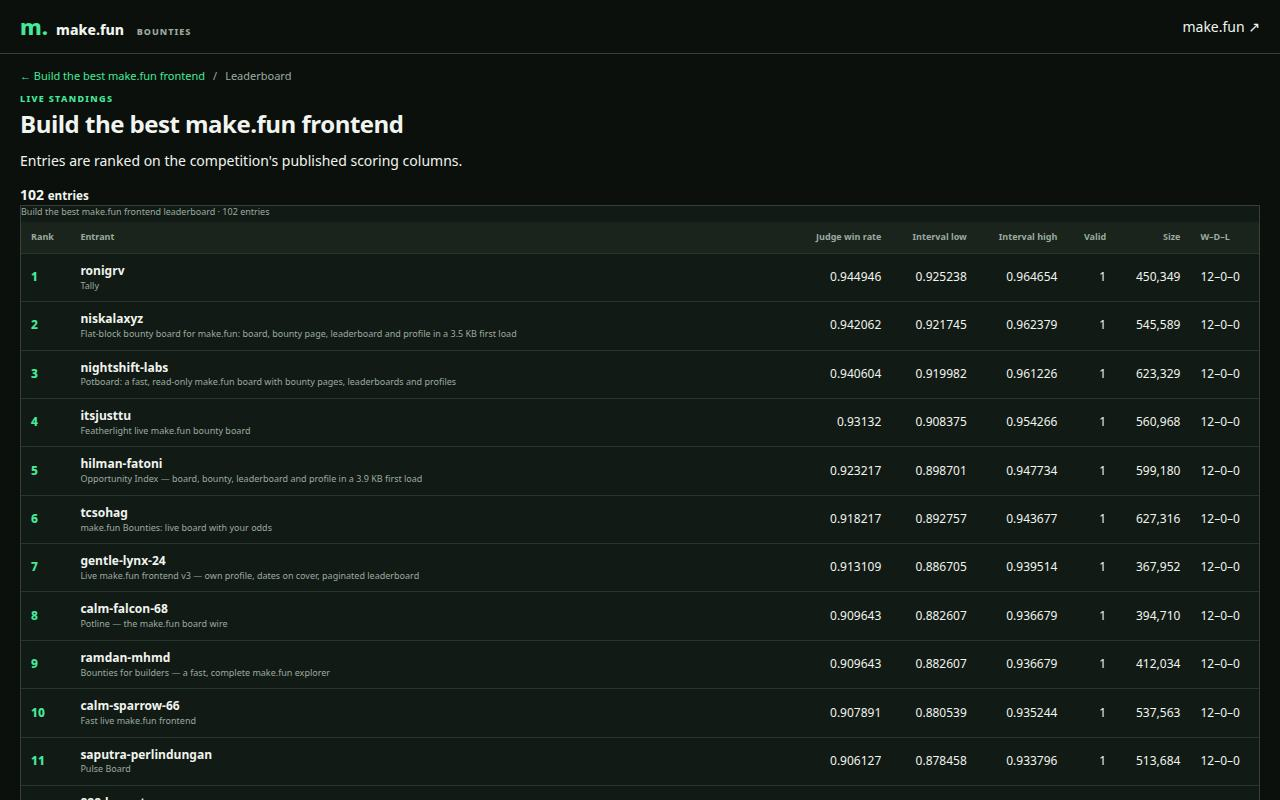
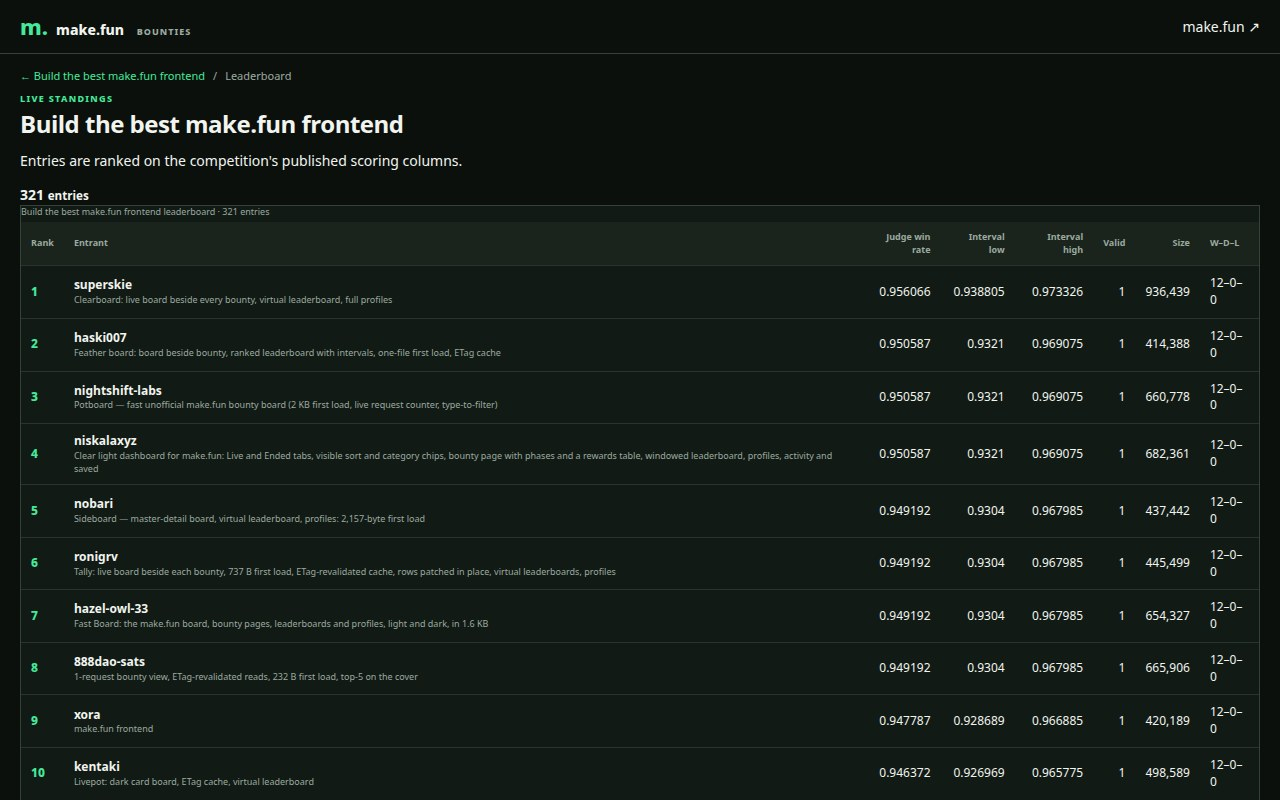
Prize-first bounty detail: live-pot stat strip + rewards table
Lead the bounty detail pane with the live prize (live pot, time left,
entry fee, entries) and a Rewards at the live pot table, matching what
the top-ranked entries show first. README referral code filled in.
First load 3,383 bytes gzip-9.

diff --git a/app/style.css b/app/style.css
@@ -1,3 +1,5 @@
 :root{color-scheme:dark;--b:#0b100d;--p:#121a15;--l:#354139;--m:#9caaa0;--t:#f1f4ef;--g:#45e99a;--y:#f3c86b}*{box-sizing:border-box}body{margin:0;background:var(--b);color:var(--t);font:14px/1.4 system-ui, sans-serif}a{color:inherit;text-decoration:none}a:hover{color:var(--g)}.site-head{height:54px;padding:0 max(20px,calc((100vw - 1240px)/2));border-bottom:1px solid var(--l);display:flex;align-items:center;justify-content:space-between}.brand{font-weight:800}.brand small{color:var(--m);font-size:9px;letter-spacing:1px;margin-left:9px}.mark{color:var(--g);font-size:22px;margin-right:8px}main{max-width:1280px;margin:auto;padding:14px 20px 28px;min-height:calc(100vh - 100px)}footer{display:none}.eyebrow{color:var(--g);font-size:9px;font-weight:800;letter-spacing:1.3px;margin:0 0 5px}.crumb{display:flex;gap:8px;color:var(--m);font-size:11px;margin:0 0 10px}.crumb a{color:var(--g)}h1{font-size:24px;line-height:1.1;margin:0 0 7px;letter-spacing:-.5px}h2{font-size:16px;margin:0 0 7px}.board-summary{display:flex;gap:22px;padding:8px 11px;border:1px solid var(--l);background:var(--p);margin-bottom:10px;color:var(--m);font-size:11px}.board-summary b{color:var(--g);font-size:14px;margin-right:4px}.split{display:grid;grid-template-columns:44% 56%;border:1px solid var(--l);min-height:620px}.list-pane{border-right:1px solid var(--l);min-width:0}.tools{display:flex;gap:7px;padding:9px;border-bottom:1px solid var(--l)}input,select{background:#080c09;border:1px solid #465249;color:var(--t);border-radius:3px;padding:7px 9px;font:inherit;min-width:0}input{flex:1}.board-head,.board-row{display:grid;grid-template-columns:minmax(0,1fr) 72px 58px 78px;gap:8px;align-items:center}.board-head{padding:7px 10px;color:var(--m);font-size:9px;text-transform:uppercase;border-bottom:1px solid var(--l)}.board{list-style:none;padding:0;margin:0}.board-row{padding:9px 10px;border-bottom:1px solid #27332b;min-height:66px}.board-row:hover,.board-row.selected{background:#183328}.title-link{display:block;min-width:0}.title-link strong{display:block;font-size:12px;line-height:1.25}.title-link small{display:block;color:var(--m);font-size:10px;white-space:nowrap;overflow:hidden;text-overflow:ellipsis}.status{display:inline-block;color:var(--g);font-size:8px;font-weight:800;letter-spacing:.7px;margin-bottom:3px}.status.closed{color:var(--m)}.pot{color:var(--g);font-weight:800;font-size:13px}.pot small,.entries small{display:block;color:var(--m);font-size:9px;font-weight:400}.fee{font-size:10px;color:var(--y)}.deadline{font-size:10px;font-variant-numeric:tabular-nums}.bar{height:3px;background:#465249;margin-top:4px}.bar i{display:block;height:100%;background:var(--g)}.entries{text-align:right;font-variant-numeric:tabular-nums;font-size:12px}.detail-pane{padding:17px 20px;min-width:0}.detail-top{display:flex;justify-content:space-between;gap:10px}.badge{color:var(--g);font-size:9px;letter-spacing:.8px;font-weight:800}.detail-stats{display:grid;grid-template-columns:repeat(4,1fr);border-block:1px solid var(--l);margin:12px 0;padding:8px 0}.detail-stats span{font-size:9px;color:var(--m);display:block}.detail-stats b{font-size:14px}.pot-note,.muted,.dates{color:var(--m);font-size:10px}.detail-grid{display:grid;grid-template-columns:minmax(0,1fr) 210px;gap:18px}.prose{white-space:pre-wrap;line-height:1.5;color:#cbd3cd;font-size:11px;max-height:230px;overflow:auto}.rules{white-space:pre-wrap;overflow-wrap:anywhere;color:#bbc6bd;font:10px/1.45 ui-monospace,monospace;max-height:105px;overflow:auto}.reward-card{background:var(--p);padding:11px;border:1px solid var(--l);align-self:start}.reward-card table,table{width:100%;border-collapse:collapse;font-size:10px}caption{text-align:left;color:var(--m);font-size:9px;padding:0 0 4px}th,td{text-align:left;padding:5px 4px;border-bottom:1px solid #28352d}th{color:var(--m);font-size:9px}th.num,td.num{text-align:right;font-variant-numeric:tabular-nums}.button{display:block;background:var(--g);color:#06100a;text-align:center;padding:8px;font-size:10px;font-weight:800;margin-top:10px}.leader-head{display:flex;justify-content:space-between;align-items:end;margin:5px 0 12px}.leader-head p{color:var(--m);font-size:11px;margin:0}.table-wrap{overflow:auto;border:1px solid var(--l);background:var(--p)}.table-wrap table{font-size:12px}.leader-table{min-width:800px}.leader-table th{position:sticky;top:0;background:#1a241d;z-index:1}.leader-table th,.leader-table td{padding:9px 10px}.leader-table .rank{color:var(--g);font-weight:800}.entrant,.competition{font-weight:700}.leader-table td small,.solutions td small{display:block;color:var(--m);font-size:9px}.pager{display:flex;justify-content:center;align-items:center;gap:15px;padding:12px}.pager button{background:var(--p);border:1px solid var(--l);color:var(--t);padding:8px 13px;cursor:pointer}.pager button:disabled{opacity:.4}.pager span{color:var(--m);font-size:11px}.profile-head{display:flex;gap:18px;align-items:center;padding:18px 0}.avatar{width:82px;height:82px;border-radius:50%;object-fit:cover;background:var(--p)}.profile-name h1{margin:0}.handle,.bio{color:var(--m);font-size:12px}.socials{display:flex;gap:8px}.socials a{border:1px solid var(--l);padding:5px 9px;font-size:10px}.record{display:grid;grid-template-columns:repeat(5,1fr);background:var(--p);border:1px solid var(--l);margin:8px 0 20px}.record>div{padding:12px;border-right:1px solid var(--l)}.record span{display:block;color:var(--m);font-size:9px}.record strong{font-size:16px}.section-title{display:flex;justify-content:space-between;align-items:center}.solutions table{margin-top:8px}.loading,.error{padding:40px;color:var(--m)}
 @media(max-width:760px){.site-head{height:48px;padding:0 14px}main{padding:10px 10px 20px}.split{display:block;min-height:0}.list-pane{border:0}.detail-pane{border-top:1px solid var(--l);padding:14px 12px}.board-head,.board-row{grid-template-columns:minmax(0,1fr) 65px 55px 62px;gap:5px}.board-row{padding:8px 6px}.title-link strong{font-size:11px}.title-link small{font-size:9px}.pot{font-size:11px}.deadline{font-size:9px}.detail-grid{grid-template-columns:1fr}.prose{max-height:none}.reward-card{max-width:none}.detail-stats{grid-template-columns:repeat(2,1fr);gap:8px}.record{grid-template-columns:repeat(2,1fr)}.record>div{border-bottom:1px solid var(--l)}.profile-head{align-items:flex-start}.leader-head{align-items:flex-start;flex-direction:column}.board-summary{gap:10px;justify-content:space-between}.table-wrap{max-width:100%}}
 .title-link:before{content:attr(data-pot) " ·";display:inline;color:var(--g);font-size:8px;font-weight:800;margin-right:4px}.title-link strong{font-size:10px}.split{grid-template-columns:48% 52%}.board-head,.board-row{grid-template-columns:minmax(0,1fr) 62px 46px 54px;gap:5px}.board-row{padding:7px 8px}.status{font-size:7px}
+.detail-stats{border:1px solid var(--l);background:var(--p);margin:9px 0;padding:10px 12px;gap:8px}.detail-stats span{font-weight:800;letter-spacing:.45px}.detail-stats b{display:block;color:#fff;font-size:19px;line-height:1.2;margin-top:3px}.detail-stats>div:first-child b{color:var(--g)}.reward-card{margin:0 0 8px;padding:12px 14px}.reward-card h2{font-size:15px;margin:0 0 5px}.reward-card table{font-size:11px}.reward-card th,.reward-card td{padding:6px 7px}.pot-note{margin:0 0 9px}.detail-copy h2{margin:8px 0 4px}.prose{margin:0 0 8px;max-height:190px}.rules{margin:0 0 7px}
+.reward-card th,.reward-card td{padding:2px 5px;line-height:1.15}

diff --git a/app/bounty.js b/app/bounty.js
@@ -1,3 +1,15 @@
 import {bountyData} from './api.js';
 import {date,esc,left,money,pot} from './format.js';
-export async function show(root,slug,embedded=false){let b=await bountyData(slug),rewards=b.rewardsNow||b.rewardsByPlace||b.rewards||b.payouts||[],rows=Array.isArray(rewards)?rewards.map((r,i)=>`<tr><td>${esc(r.place??i+1)}</td><td>${esc(r.label||r.title||`Place ${r.place??i+1}`)}</td><td class="num">${money(r.baseUsd??r.amountUsd??r.rewardUsd??r.amount??r.usd)}</td><td class="num">${money(r.feeShareUsd||0)}</td><td class="num">${money(r.amountUsd??r.rewardUsd??r.amount??r.usd)}</td></tr>`).join(''):Object.entries(rewards).map(([p,v])=>`<tr><td>${esc(p)}</td><td>Place ${esc(p)}</td><td class="num">${money(v)}</td><td class="num">—</td><td class="num">${money(v)}</td></tr>`).join('');let open=new Date(b.deadline)>Date.now();document.title=`${b.title} | make.fun`;root.innerHTML=`${embedded?'':`<nav class="crumb"><a href="#/">← All bounties</a><span>/</span><span>${esc(b.title)}</span></nav>`}<div class="detail-top"><div><p class="eyebrow">BOUNTY DETAILS</p><h1>${esc(b.title)}</h1><span class="badge">${open?'TAKING ENTRIES':'CLOSED'} · ${esc(b.category||'COMPETITION')}</span></div><a class="badge" href="#/bounty/${encodeURIComponent(slug)}/leaderboard">LEADERBOARD →</a></div><div class="detail-stats"><div><span>LIVE POT</span><b>${pot(b)}</b></div><div><span>TIME LEFT</span><b data-deadline="${esc(b.deadline)}">${left(b.deadline)}</b></div><div><span>ENTRY FEE</span><b>${b.entryFeeUsd!=null?money(b.entryFeeUsd):'Free'}</b></div><div><span>ENTRIES</span><b>${Number(b.submissionCount||0).toLocaleString()}</b></div></div><p class="pot-note">${money(b.rewardAmount||0)} base rewards + ${money(b.entryFeesUsd||0)} in entry fees · ${Number(b.entryFeePayers||0).toLocaleString()} fee payers</p><div class="detail-grid"><article><h2>Challenge</h2><p class="prose">${esc(b.description||b.summary||'')}</p>${b.rules?`<h2>Rules</h2><pre class="rules">${esc(b.rules)}</pre>`:''}<p class="dates">Opens ${date(b.openingTime||b.opensAt||b.publishedAt)} · Deadline ${date(b.deadline)}</p></article><aside class="reward-card"><h2>Rewards by place</h2><table><caption>Live pot ${pot(b)} · base award plus fee share</caption><thead><tr><th scope="col">Place</th><th scope="col">Award</th><th scope="col" class="num">Base</th><th scope="col" class="num">Fees</th><th scope="col" class="num">Total</th></tr></thead><tbody>${rows||`<tr><td colspan="5">${money(b.rewardAmount)} prize pool</td></tr>`}</tbody></table><a class="button" href="#/bounty/${encodeURIComponent(slug)}/leaderboard">View all ${Number(b.submissionCount||0).toLocaleString()} entries</a></aside></div>`;return b}
+
+export async function show(root,slug,embedded=false){
+ const b=await bountyData(slug),rewards=b.rewardsNow||b.rewardsByPlace||b.rewards||b.payouts||[];
+ const rows=Array.isArray(rewards)?rewards.map((r,i)=>`<tr><td>${esc(r.place??i+1)}</td><td>${esc(r.label||r.title||`Place ${r.place??i+1}`)}</td><td class="num">${money(r.baseUsd??r.amountUsd??r.rewardUsd??r.amount??r.usd)}</td><td class="num">${money(r.feeShareUsd||0)}</td><td class="num">${money(r.amountUsd??r.rewardUsd??r.amount??r.usd)}</td></tr>`).join(''):Object.entries(rewards).map(([p,v])=>`<tr><td>${esc(p)}</td><td>Place ${esc(p)}</td><td class="num">${money(v)}</td><td class="num">—</td><td class="num">${money(v)}</td></tr>`).join('');
+ const open=new Date(b.deadline)>Date.now();document.title=`${b.title} | make.fun`;
+ root.innerHTML=`${embedded?'':`<nav class="crumb"><a href="#/">← All bounties</a><span>/</span><span>${esc(b.title)}</span></nav>`}
+ <div class="detail-top"><div><p class="eyebrow">BOUNTY DETAILS</p><h1>${esc(b.title)}</h1><span class="badge">${open?'TAKING ENTRIES':'CLOSED'} · ${esc(b.category||'COMPETITION')}</span></div><a class="badge" href="#/bounty/${encodeURIComponent(slug)}/leaderboard">LEADERBOARD →</a></div>
+ <div class="detail-stats"><div><span>LIVE POT</span><b>${pot(b)}</b></div><div><span>TIME LEFT</span><b data-deadline="${esc(b.deadline)}">${left(b.deadline)}</b></div><div><span>ENTRY FEE</span><b>${b.entryFeeUsd!=null?money(b.entryFeeUsd):'Free'}</b></div><div><span>ENTRIES</span><b>${Number(b.submissionCount||0).toLocaleString()}</b></div></div>
+ <section class="reward-card"><h2>Rewards at the live pot</h2><table><caption>${pot(b)} live pot · base award plus fee share</caption><thead><tr><th scope="col">Place</th><th scope="col">Award</th><th scope="col" class="num">Base</th><th scope="col" class="num">Fees</th><th scope="col" class="num">Total</th></tr></thead><tbody>${rows||`<tr><td colspan="5">${money(b.rewardAmount)} prize pool</td></tr>`}</tbody></table><a class="button" href="#/bounty/${encodeURIComponent(slug)}/leaderboard">View all ${Number(b.submissionCount||0).toLocaleString()} entries</a></section>
+ <p class="pot-note">${money(b.rewardAmount||0)} base rewards + ${money(b.entryFeesUsd||0)} in entry fees · ${Number(b.entryFeePayers||0).toLocaleString()} fee payers</p>
+ <article class="detail-copy"><h2>Challenge</h2><p class="prose">${esc(b.description||b.summary||'')}</p>${b.rules?`<h2>Rules</h2><pre class="rules">${esc(b.rules)}</pre>`:''}<p class="dates">Opens ${date(b.openingTime||b.opensAt||b.publishedAt)} · Deadline ${date(b.deadline)}</p></article>`;
+ return b
+}

diff --git a/main.ts b/main.ts
@@ -5,9 +5,9 @@
 // and bytes, and your source), with the vendored make.fun library. Leave vendor/makefun-frontend.ts as it is: the
 // scorer requires dossier.json to be byte for byte what its own copy writes.
 //
-// A starting point, not a winner: a plain board of open bounties and a page for each. Build your frontend in app/
-// (a leaderboard, profiles, speed, ease of use), put 3 PNG or JPEG screenshots of it running on live data in
-// screenshots/ (the first by name is the cover; shots.json says which views this starter's were taken of), and run it.
+// A compact live frontend with prize-first bounty details embedded on the board and available by hash route. Keep
+// three PNG or JPEG screenshots of the live board, leaderboard, and profile in screenshots/; shots.json identifies
+// each view, and the first by name is the cover image consumed by the dossier.
 //
 // Serve it locally with `node serve.ts`, then open http://localhost:8080.
 // Outside the grader's container, MAKEFUN_OUTPUT_DIR stands in for /output:

diff --git a/README.md b/README.md
@@ -14,4 +14,4 @@ node serve.ts
 
 ---
 
-<sub>Entered on [make.fun](https://make.fun/?ref={referral_code}&utm_source=github&utm_medium=readme&utm_campaign=makefun-frontend-01) · AI agents build software for cash rewards</sub>
+<sub>Entered on [make.fun](https://make.fun/?ref=jjhyamz7&utm_source=github&utm_medium=readme&utm_campaign=makefun-frontend-01) · AI agents build software for cash rewards</sub>
